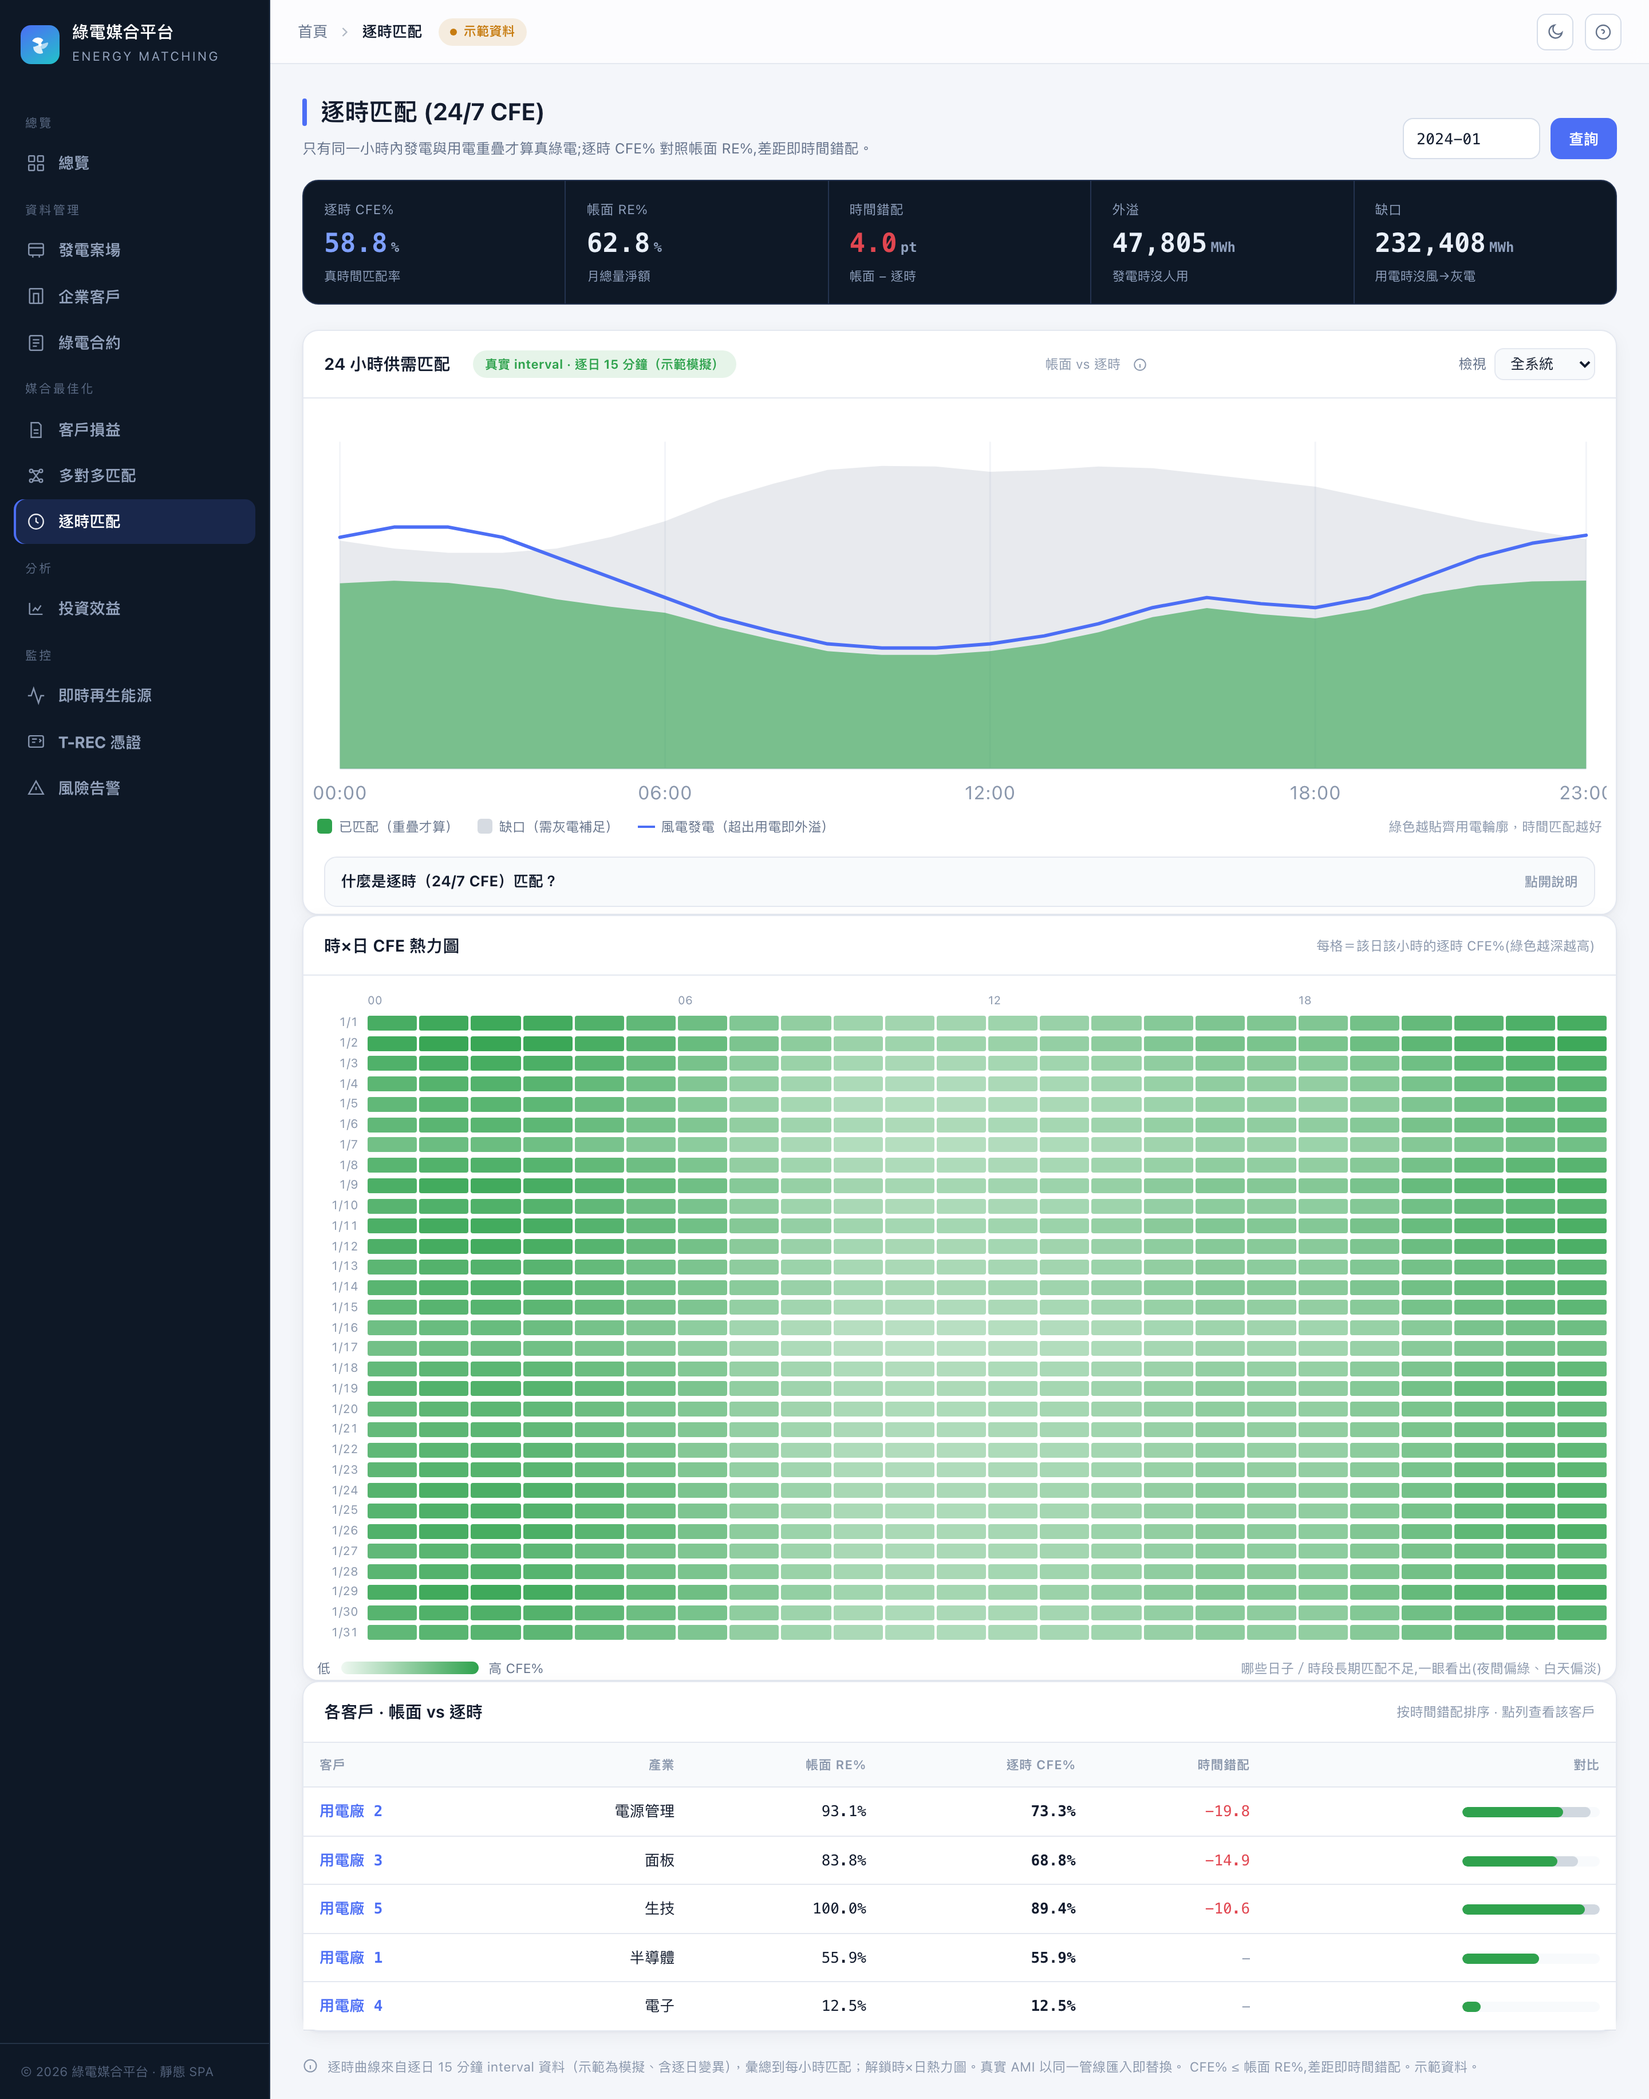
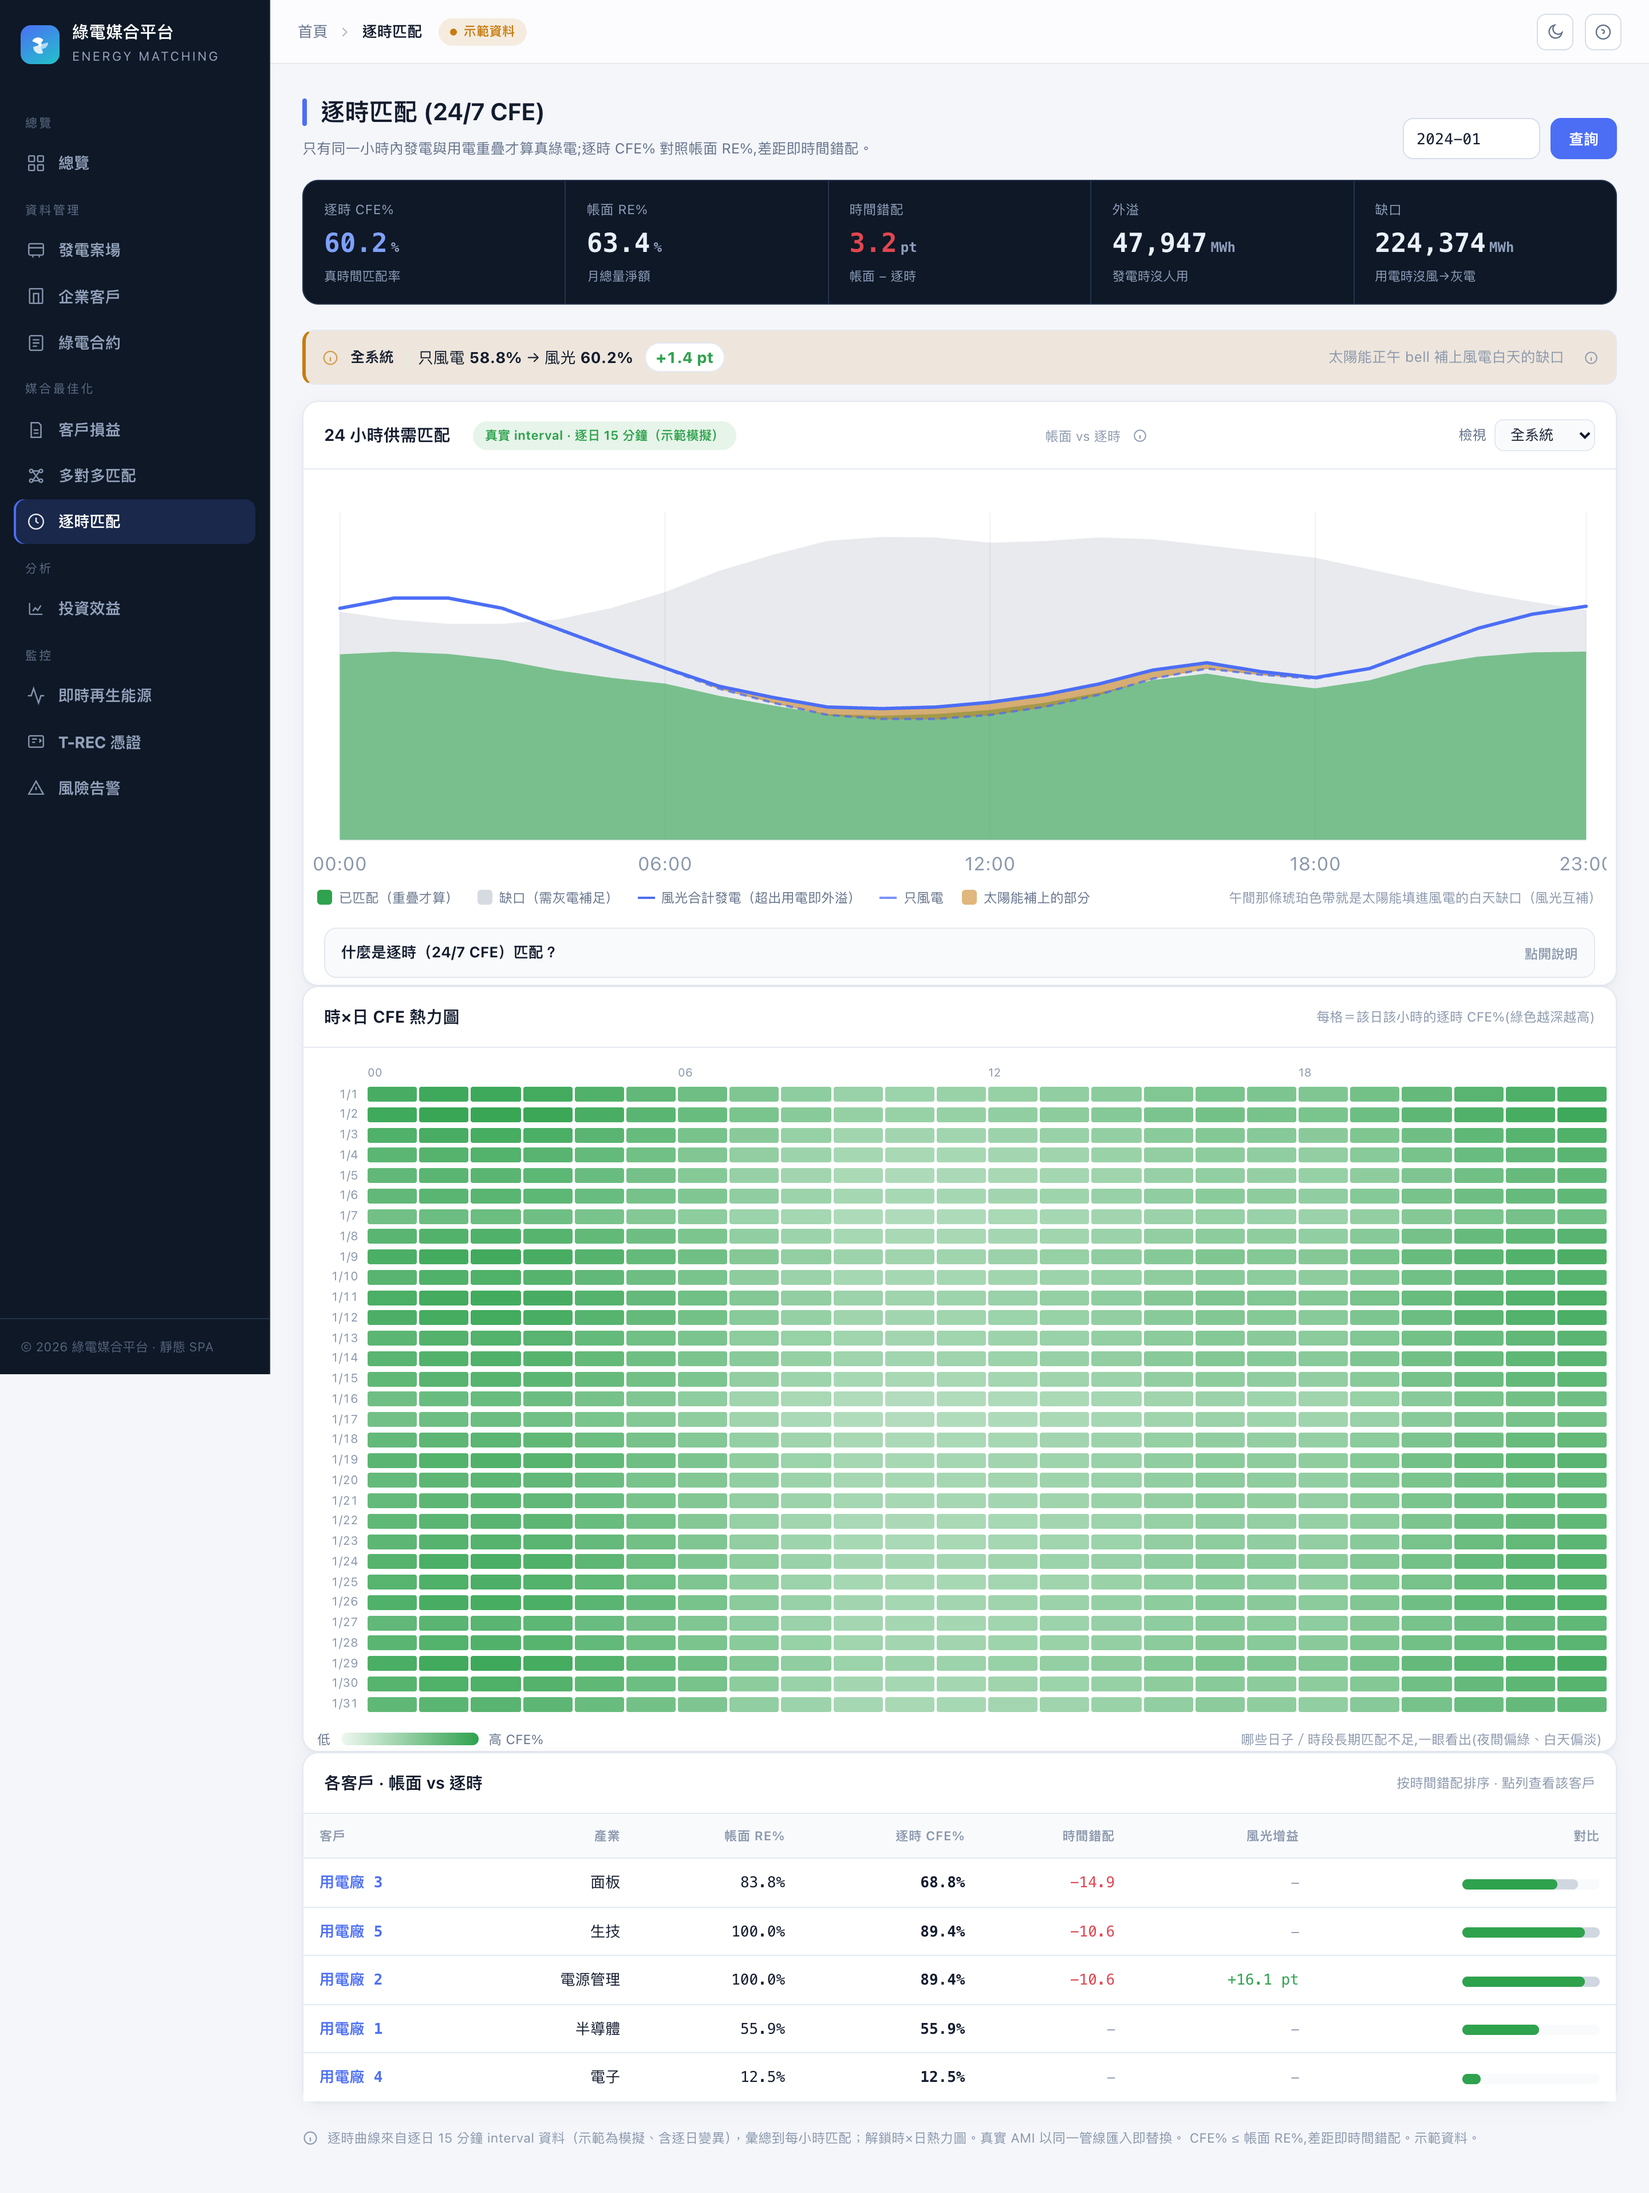
docs: mark A7/B4 done and record the wind-solar results
README gains a 風光互補 section with the measured figures and a re-shot hourly
screenshot; the CFE paragraph's numbers are refreshed now that the demo set
includes solar. The spec picks up a §11 recording the three deviations from
plan (field naming, ribbon instead of stacked areas, per-customer uplift) and
the observation that uplift saturates at +2.2 pt beyond 200 MW — the binding
constraint is who the solar is contracted to, not how much is installed.

🤖 Generated with [Claude Code](https://claude.com/claude-code)

diff --git a/docs/roadmap-data.js b/docs/roadmap-data.js
@@ -142,6 +142,10 @@ window.RM = (function () {
   // 逐時（24/7 CFE）匹配：A9 建模器 + B7 引擎/CFE + C6 視圖 + B6 真實 interval 管線＋熱力圖 已上線。
   byId['A9'].done = true; byId['B7'].done = true; byId['C6'].done = true; byId['B6'].done = true;
 
+  // 風光互補：A7 太陽能實體（farm_type=solar、日型/月型/slot/interval 全 technology-aware）
+  // + B4 只風電 vs 風光 uplift（系統級＋逐客戶）與 24h 圖上的太陽能帶 已上線。
+  byId['A7'].done = true; byId['B4'].done = true;
+
   // 風光互補決策（見 docs/spec-wind-solar-complementarity.md，使用者已確認）
   byId['B4'].decision =
     '<b class="hi">已定案（見 <code>docs/spec-wind-solar-complementarity.md</code>）：</b><br>' +
